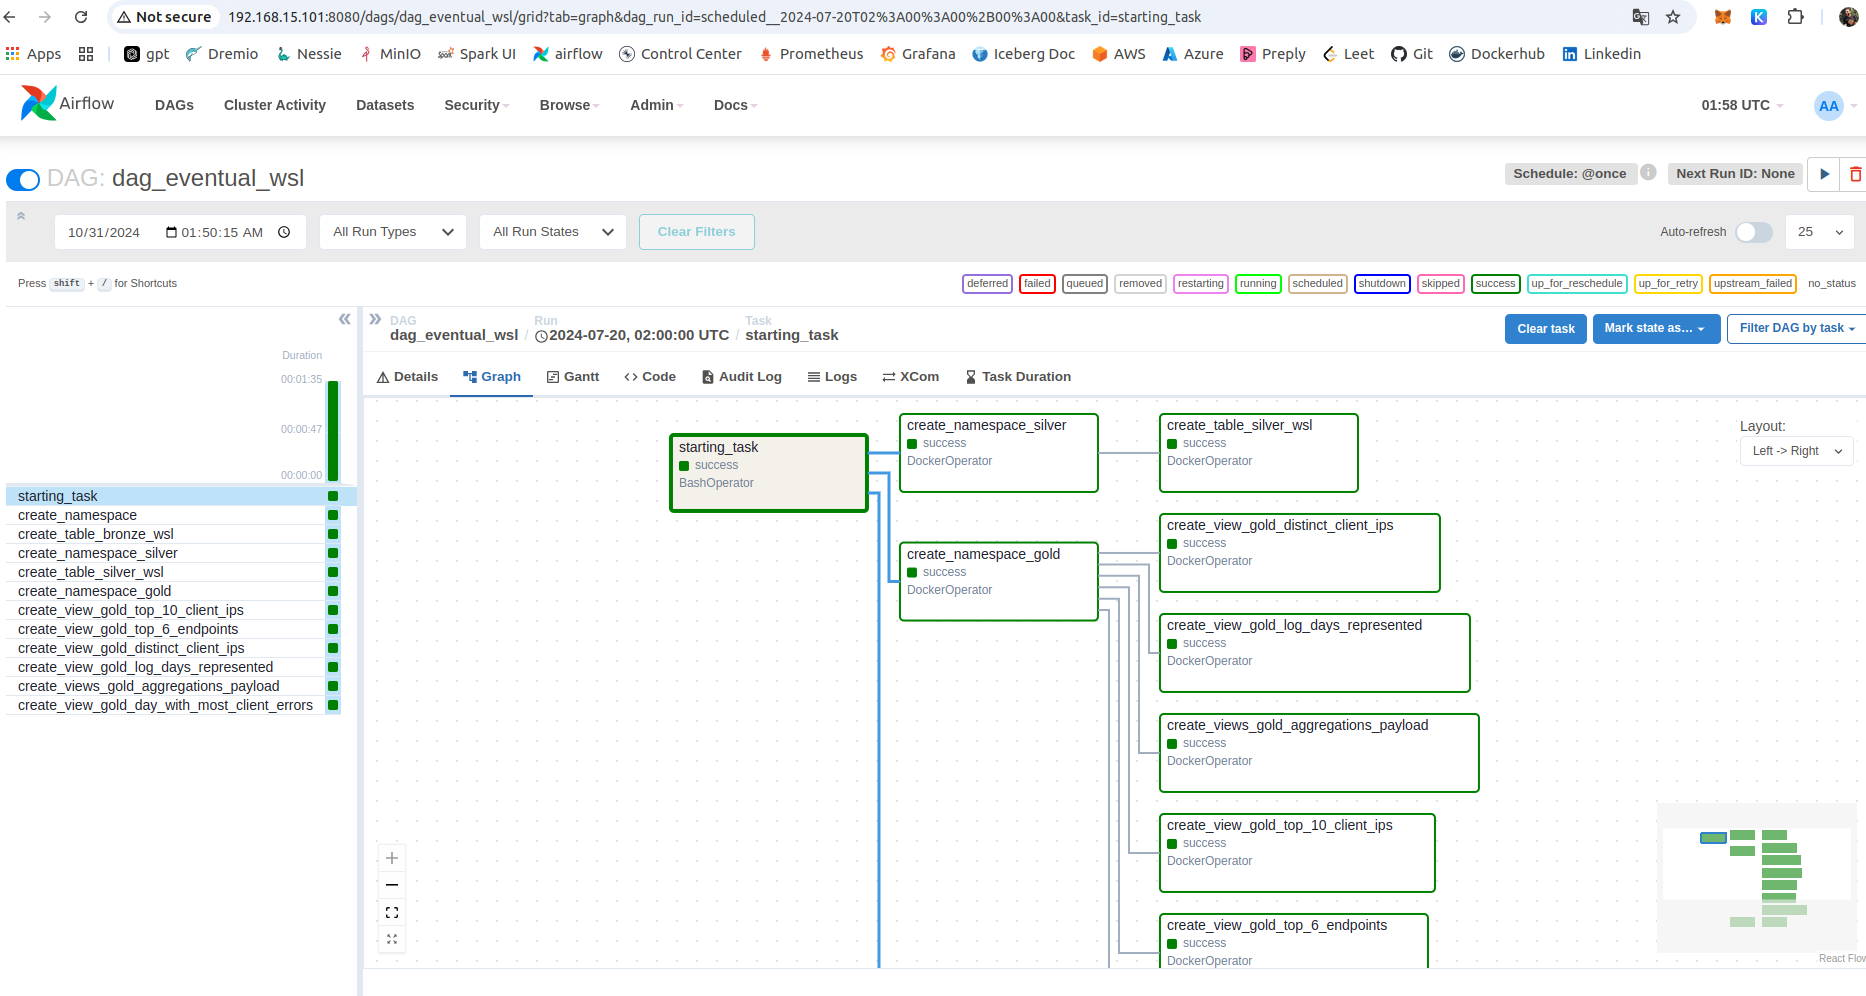
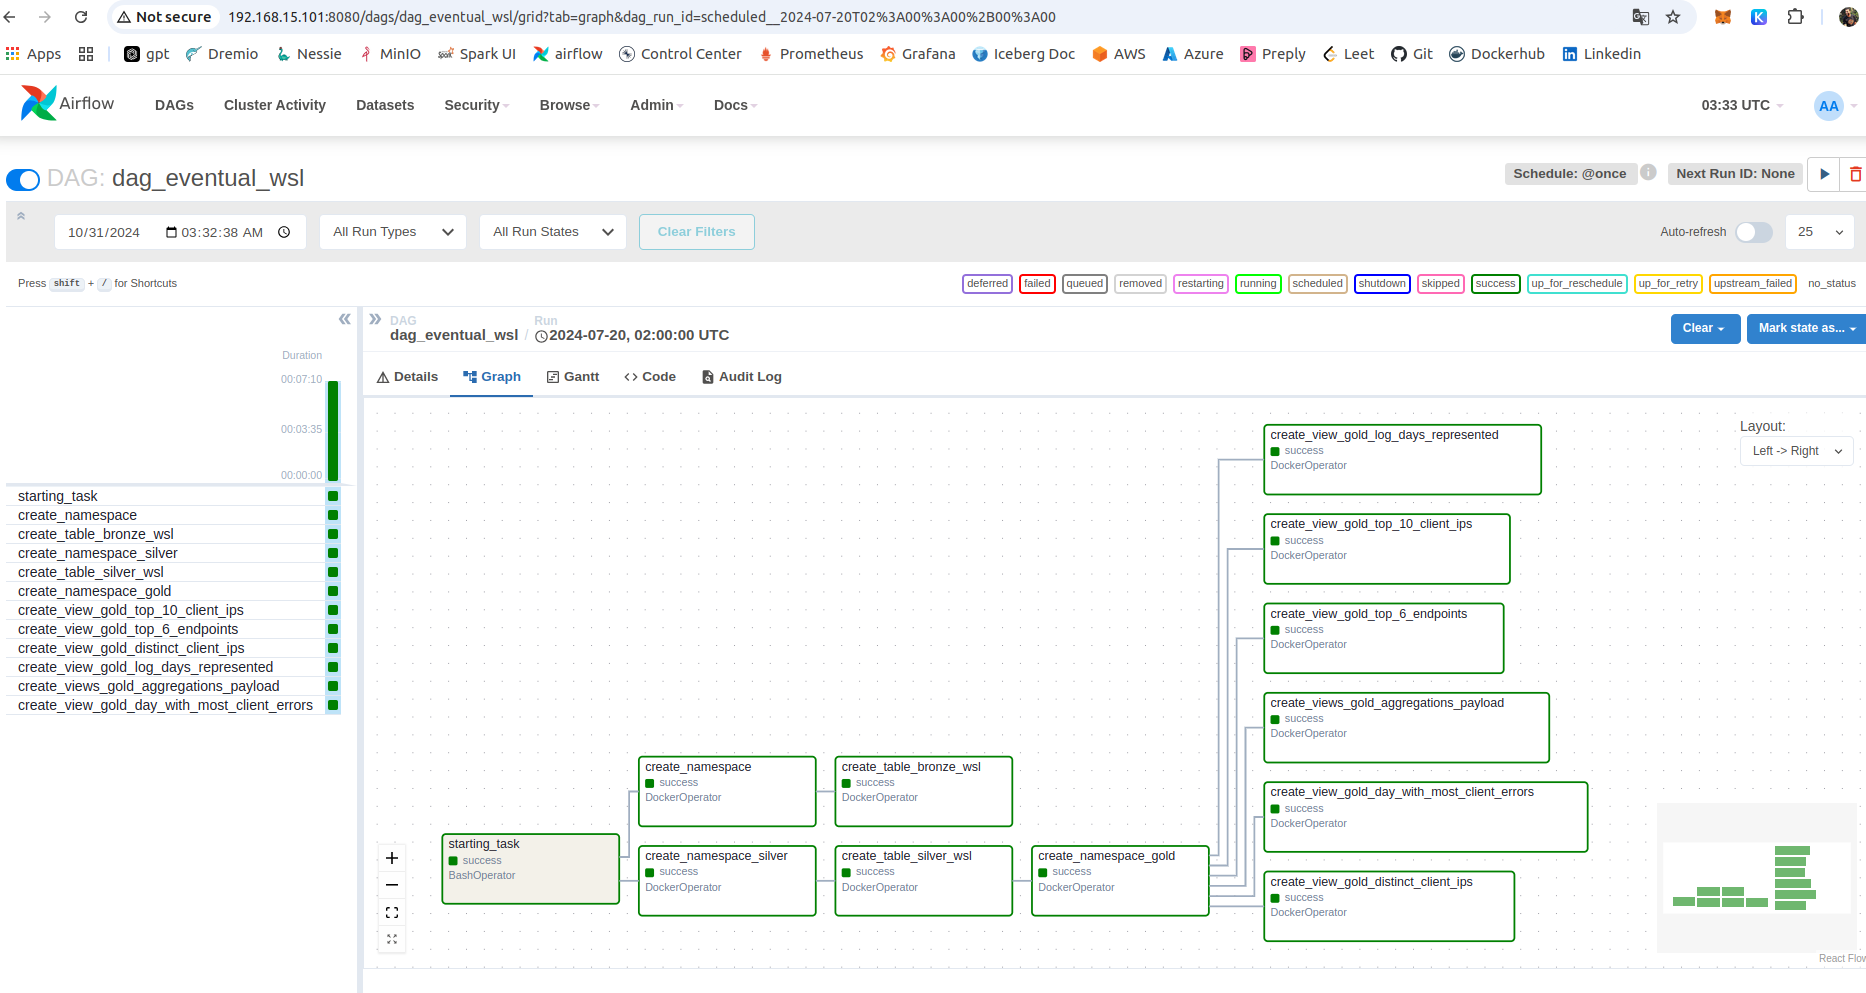
Improving README.md

diff --git a/docker/app_layer/spark_jobs/src/2_bronze_to_silver/pyspark_app.py b/docker/app_layer/spark_jobs/src/2_bronze_to_silver/pyspark_app.py
@@ -17,28 +17,6 @@ class ActorBronzeToSilver:
     self.df_transformed = None
 
 
-  def create_silver_table(self, table_name, table_path):
-    self.spark.sql(f"CREATE NAMESPACE IF NOT EXISTS nessie.silver")
-    self.spark.sql(f"""
-      CREATE EXTERNAL TABLE IF NOT EXISTS {table_name} (
-      ip_address STRING                 NOT NULL COMMENT 'IP Address',
-      user STRING                       NOT NULL COMMENT 'User authenticated',
-      response_utc_timestamp TIMESTAMP  NOT NULL COMMENT 'Response timestamp in UTC',
-      http_method STRING                NOT NULL COMMENT 'HTTP Method',
-      http_route STRING                 NOT NULL COMMENT 'HTTP Route',
-      http_protocol STRING              NOT NULL COMMENT 'HTTP Protocol',
-      http_status INT                   NOT NULL COMMENT 'HTTP Status',
-      payload_size INT                  NOT NULL COMMENT 'Payload size',
-      date_ref STRING                   NOT NULL COMMENT 'Date reference')
-    USING iceberg
-    PARTITIONED BY (date_ref)
-    LOCATION '{table_path}'
-    TBLPROPERTIES ('gc.enabled' = 'true')""")
-    self.spark.table(table_name).printSchema()
-    self.logger.info(f"Table {table_name} created")
-    return self
-
-
   def read_from_bronze(self, bronze_table_name, ohour):
     self.df_bronze =  self.spark.table(bronze_table_name).filter(col("date_ref") == ohour)
     return self
@@ -94,7 +72,7 @@ class ActorBronzeToSilver:
 
 if __name__ == "__main__":
   
-  APP_NAME = "STAGING_TO_BRONZE"
+  APP_NAME = "BRONZE_TO_SILVER"
   logger = logging.getLogger(__name__)
   logger.setLevel(logging.INFO)
   logger.addHandler(logging.StreamHandler())
@@ -111,7 +89,6 @@ if __name__ == "__main__":
 
   status = (
     ActorBronzeToSilver(spark, logger)
-      .create_silver_table(SILVER_TABLE_NAME, SILVER_TABLE_PATH)
       .read_from_bronze(BRONZE_TABLE_NAME, partition_ohour)
       .parse_to_silver_schema()
       .cast_and_transform_to_silver()

diff --git a/docker/app_layer/spark_jobs/src/1_staging_to_bronze/pyspark_app.py b/docker/app_layer/spark_jobs/src/1_staging_to_bronze/pyspark_app.py
@@ -16,21 +16,6 @@ class ActorStagingToBronze:
     self.df_transformed = None
 
 
-  def create_bronze_table(self, table_name, table_path):
-    self.spark.sql("CREATE NAMESPACE IF NOT EXISTS nessie.bronze")
-    self.spark.sql(f"""
-      CREATE EXTERNAL TABLE IF NOT EXISTS {table_name} (
-        value STRING    NOT NULL COMMENT 'Raw log line',
-        date_ref STRING NOT NULL COMMENT 'Date reference'
-      )
-      USING iceberg
-      LOCATION '{table_path}'
-      PARTITIONED BY (date_ref)
-      TBLPROPERTIES ('gc.enabled' = 'true')""")
-    self.spark.table(table_name).printSchema()
-    self.logger.info(f"Table {table_name} created")
-    return self
-
   def config_path_staging_files(self, prefix, execution_date):
     partitioned_path = dt.strftime(execution_date, 'year=%Y/month=%m/day=%d/hour=%H')
     self.path_staging = f"{prefix}/{partitioned_path}"
@@ -80,7 +65,6 @@ if __name__ == "__main__":
 
   status = (
     ActorStagingToBronze(spark, logger)
-      .create_bronze_table(BRONZE_TABLE_NAME, BRONZE_TABLE_PATH)
       .config_path_staging_files(STAGING_PATH, EXECUTION_DATE)
       .read_from_staging()
       .write_to_bronze(BRONZE_TABLE_NAME, partition_ohour)

diff --git a/mnt/airflow/dags/dag_wsl_eventual.py b/mnt/airflow/dags/dag_wsl_eventual.py
@@ -165,6 +165,4 @@ with DAG(
     )
 
     starting_process >> create_namespace_bronze >> create_table_bronze_wsl
-    starting_process >> create_namespace_silver >> create_table_silver_wsl
-
-    starting_process >> create_namespace_gold >> [create_view_gold_1, create_view_gold_2, create_view_gold_3, create_view_gold_4, create_view_gold_5, create_view_gold_6]
+    starting_process >> create_namespace_silver >> create_table_silver_wsl >> create_namespace_gold >> [create_view_gold_1, create_view_gold_2, create_view_gold_3, create_view_gold_4, create_view_gold_5, create_view_gold_6]

diff --git a/README.md b/README.md
@@ -6,7 +6,7 @@
 ## Índice
 
 - [1. Introdução](#1-introdução)
-- [2. Arquitetura Técnica e Serviços](#2-arquitetura-técnica-e-serviços)
+- [2. Arquitetura de Solução e Serviços](#2-arquitetura-de-solução-e-serviços)
 - [3. Considerações e Arquitetura de Solução](#3-considerações-e-arquitetura-de-solução)
 - [4. Considerações sobre implementação de camadas Bronze, Silver e Gold](#4-considerações-sobre-implementação-de-camadas-bronze-silver-e-gold)
 - [5. Reprodução do Case](#5-reprodução-do-case)
@@ -59,7 +59,7 @@ Com essa biblioteca é possível gerar dados randômicos usando um dicionário d
 - No pipeline definido no Apache Airflow, um operador DockerOperator executa o job que gera os logs de acesso a servidores web e envia para o MinIO.
 - Os arquivos são transferidos para buckets no MinIO de staging.
 
-### 1.3. Overview da solução
+### 1.3. Overview da solução Servicos
 
 Criada a forma de gerar os dados e envia-los para o MinIO, foi construída uma arquitetura de solução para processamento e análise dos logs de acesso a servidores web. A arquitetura de solução é composta por diferentes camadas, cada uma com um papel específico. As camadas são:
 
@@ -71,17 +71,33 @@ Criada a forma de gerar os dados e envia-los para o MinIO, foi construída uma a
 - **Orquestração**: Apache Airflow
 - **Monitoramento e Observabilidade**: Prometheus, Node Exporter, Cadvisor, Grafana
 
-#### Multi-hop Data Lakehouse
+**Observação**: Mais informações sobre a arquitetura de solução estão na seção 2.
 
-- Os dados brutos contendo os logs de acesso a servidores web são armazenados no MinIO em formato de texto e extensão .log e com compressão gzip.
+### 1.4. Overview da solução Dados
 
+- **Dados brutos** contendo os logs de acesso a servidores web são armazenados no MinIO em formato de texto e extensão .log e com compressão gzip.
 - **Tabela bronze**: Dados brutos lidos de arquivos de logs de acesso a servidores web. Tabela do tipo iceberg e particionada por data.
 - **Tabela silver**: Dados tratados e limpos, com colunas adicionais para facilitar análises. Tabela do tipo iceberg e particionada por data.
-- **Views gold**: Views que agregam dados de tabelas silver para análises de negócio. 
+- **Views gold**: Views que agregam dados de tabelas silver para análises de negócio. Existe uma view para cada pergunta do desafio.
 
-**Observação**: Existe uma view para cada pergunta do desafio.
+**Observação**: Mais informações sobre a arquitetura de solução estão na seção 3.
 
-## 2. Arquitetura técnica e serviços
+### 1.5. Solução e reproducibilidade
+
+- A solução foi desenvolvida usando Docker e Docker Compose para deploy de serviços.
+- Para facilitar a reprodução da solução, foi criado um Makefile com comandos para build, deploy e remoção dos serviços.
+- As imagens docker criadas para a solução estão em `/docker`.
+    - `/docker/app_layer`: Imagens que empacotam aplicações construídas em jobs Python e Spark.
+    - `/docker/customized`: Imagens customizadas a partir de imagens base do Spark, Airflow e Prometheus.
+    - `/services`: Arquivos yml que definem os serviços necessários para a solução.
+    - `/Makefile`: Arquivo com comandos para build, deploy e remoção dos serviços.
+
+
+Como um plus, foi criado um esboço da solução usando notebooks do Databricks Community Edition. O notebook está em `/db_community`.
+
+**Observação**: Mais informações sobre a arquitetura de solução estão na seção 5.
+
+## 2. Arquitetura de Solução e Serviços
 
 Para construção da solução uma plataforma de dados com diferentes serviços precisa ser construída. Cada serviço desempenha um papel específico. O intuito dessa seção é apresentar tais serviços, características e casos de uso, bem como a forma com que eles se relacionam.
 
@@ -222,7 +238,39 @@ No Grafana é possível adicionar importar dashboards prontos para monitoramento
 <img src="./img/reproduction/7_grafana_node_exporter.png" alt="grafana_node_exporter" width="80%"/>
 
 
-# 3. Considerações e Arquitetura de Solução
+## 3. Considerações e Arquitetura de Solução
+
+### 3.1. Dags do Airflow
+
+### 3.1.1. Dag eventual DDL
+
+Dag com Jobs eventuais para criação de namespaces, similar a databases, e tabela Iceberg no Nessie.
+
+[![dag_eventual.png](img/dag_eventual.png)](dag_eventual.png)
+
+
+### 3.1.2. Dag de Jobs de Ingestão
+
+
+### 3.1.3. Dag de Jobs de Processamento
+
+[![dag_diaria.png](img/dag_diaria.png)](dag_diaria.png)
+
+
+### 3.2. Visão de Tabelas e Views no Dremio
+
+### 3.2.1. Tabela Bronze
+
+[![bronze_table.png](img/bronze_table.png)](bronze_table.png)
+
+
+### 3.2.2. Tabela Silver
+
+[![silver_table.png](img/silver_table.png)](silver_table.png)
+
+#### 3.2.3. Views Gold
+
+[![view_gold.png](img/view_gold.png)](view_gold.png)
 
 # 4. Considerações sobre implementação de camadas Bronze, Silver e Gold
 
